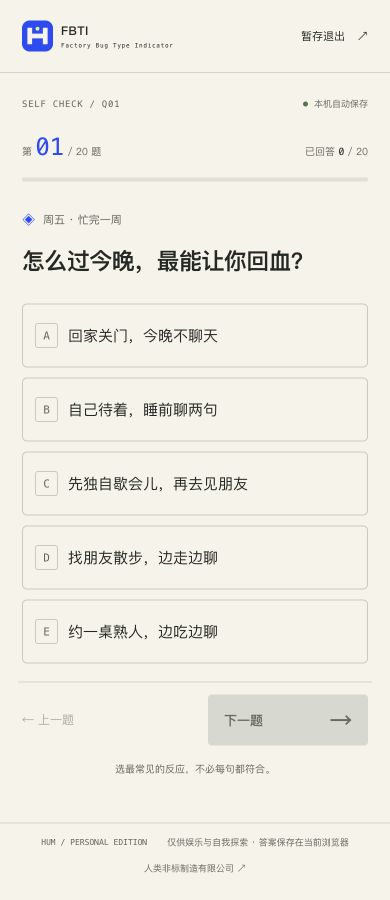
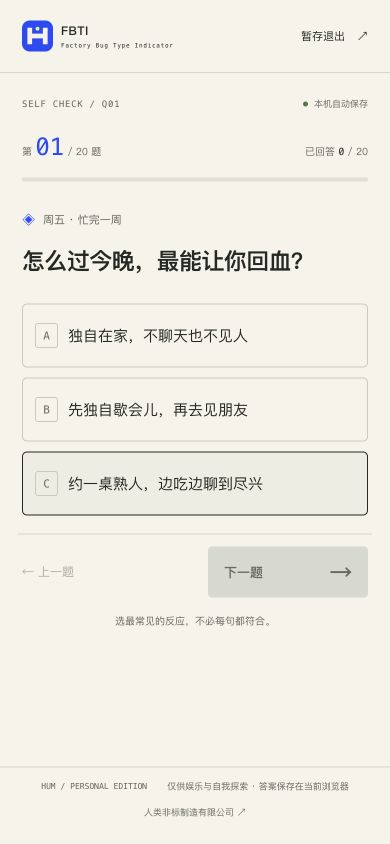
Use three distinct choices per question and preserve legacy answers

diff --git a/src/tests/question-compatibility.test.ts b/src/tests/question-compatibility.test.ts
@@ -1,10 +1,16 @@
 import { describe, expect, it } from "vitest";
 import { SELF_QUESTIONS } from "@/data/questions/self";
 import { FRIEND_QUESTIONS } from "@/data/questions/friend";
-import { orderedQuestionOptions } from "@/data/questions/presentation";
+import { orderedQuestionOptions, retainedQuestionOption } from "@/data/questions/presentation";
 import { generatePersonalManual } from "@/lib/personal-manual/generate";
 import { sampleAnswers, sampleScores } from "@/lib/results/samples";
-import type { Question } from "@/lib/domain";
+import { DIMENSION_IDS, type Question } from "@/lib/domain";
+import { PERSONALITY_TYPES } from "@/data/personality-types";
+import { scoreAnswers } from "@/lib/scoring";
+import { scoreFriendAnswers } from "@/lib/friends/score";
+import { createProgress, decodeProgress, withAnswer } from "@/lib/quiz/progress";
+import { createFriendProgress, decodeFriendProgress } from "@/lib/friends/progress";
+import { encodePacket, publicSelfFromAnswers } from "@/lib/sharing/snapshot";
 import original from "./fixtures/question-contract.json";
 
 const contract = (questions: readonly Question[]) =>
@@ -15,21 +21,73 @@ const contract = (questions: readonly Question[]) =>
     options: options.map(({ id, value }) => ({ id, value })),
   }));
 
-describe("plain-2 wording compatibility", () => {
+describe("clear-3 choices and legacy compatibility", () => {
   it("retains every original stored answer ID, score, direction and serial position", () => {
     expect(contract(SELF_QUESTIONS)).toEqual(original.self);
     expect(contract(FRIEND_QUESTIONS)).toEqual(original.friend);
   });
-  it("display ordering cannot alter saved answers or the resulting report", () => {
+  it("shows exactly three distinct choices without altering legacy answers or reports", () => {
     const answers = sampleAnswers(sampleScores("0101"));
     const before = generatePersonalManual(answers);
     for (const question of [...SELF_QUESTIONS, ...FRIEND_QUESTIONS]) {
       const sourceOrder = question.options.map(({ id }) => id);
       const shown = orderedQuestionOptions(question);
-      expect(shown.map(({ value }) => value)).toEqual([0, 1, 2, 3, 4]);
-      expect(new Set(shown.map(({ id }) => id))).toEqual(new Set(sourceOrder));
+      expect(shown.map(({ value }) => value)).toEqual([0, 2, 4]);
+      expect(new Set(shown.map(({ text }) => text)).size).toBe(3);
+      for (const option of shown) {
+        expect(option.text.trim().length).toBeGreaterThan(0);
+        expect(question.options.find(({ id }) => id === option.id)?.value).toBe(option.value);
+      }
       expect(question.options.map(({ id }) => id)).toEqual(sourceOrder);
     }
     expect(generatePersonalManual(answers)).toStrictEqual(before);
+  });
+  it("keeps both scoring directions and all sixteen models reachable with three choices", () => {
+    for (const [questions, score] of [
+      [SELF_QUESTIONS, scoreAnswers],
+      [FRIEND_QUESTIONS, scoreFriendAnswers],
+    ] as const) {
+      for (const device of PERSONALITY_TYPES) {
+        const answers = questions.map((q) => {
+          const high = device.key[DIMENSION_IDS.indexOf(q.dimension)] === "1";
+          const position = high !== q.reverse ? 2 : 0;
+          return { questionId: q.id, optionId: orderedQuestionOptions(q)[position].id };
+        });
+        expect(score(answers).typeKey).toBe(device.key);
+        expect(Object.values(score(answers).scores)).toEqual([...device.key].map((bit) => bit === "1" ? 100 : 0));
+      }
+      const middle = questions.map((q) => ({ questionId: q.id, optionId: orderedQuestionOptions(q)[1].id }));
+      expect(Object.values(score(middle).scores)).toEqual([50, 50, 50, 50]);
+    }
+  });
+  it("preserves omitted old choices on restore and only replaces an explicitly changed answer", () => {
+    for (const q of [...SELF_QUESTIONS, ...FRIEND_QUESTIONS]) {
+      for (const option of q.options) {
+        expect(retainedQuestionOption(q, option.id)).toEqual(
+          option.value === 1 || option.value === 3 ? option : undefined,
+        );
+      }
+      expect(retainedQuestionOption(q)).toBeUndefined();
+    }
+    const answers = sampleAnswers(sampleScores("0000"));
+    const old = { ...createProgress(), answers, currentIndex: 19, completed: true };
+    const restored = decodeProgress(JSON.stringify(old)).progress;
+    expect(restored).toEqual(old);
+    expect(generatePersonalManual(restored.answers)).toEqual(generatePersonalManual(answers));
+    const choice = orderedQuestionOptions(SELF_QUESTIONS[0])[1];
+    const edited = withAnswer(restored, "Q01", choice.id);
+    expect(edited.answers[0].optionId).toBe(choice.id);
+    expect(edited.answers.slice(1)).toEqual(answers.slice(1));
+    expect(edited.completed).toBe(false);
+    expect(retainedQuestionOption(SELF_QUESTIONS[0], choice.id)).toBeUndefined();
+    expect(scoreAnswers(edited.answers).scores).toEqual({ energy: 30, expression: 25, navigation: 25, connection: 25 });
+    const invitation = encodePacket({ kind: "invite", self: publicSelfFromAnswers(answers), invitationId: "0303030303030303" });
+    const observation = {
+      ...createFriendProgress(invitation),
+      answers: FRIEND_QUESTIONS.map((q) => ({ questionId: q.id, optionId: q.options.find((o) => o.value === 1)!.id })),
+      currentIndex: 7,
+      completed: true,
+    };
+    expect(decodeFriendProgress(JSON.stringify(observation), invitation)).toEqual({ invalid: false, progress: observation });
   });
 });

diff --git a/src/data/questions/three-choice-text.ts b/src/data/questions/three-choice-text.ts
@@ -1,0 +1,145 @@
+/** Clear-3: concrete alternatives for raw values 0 / 2 / 4, in that order.
+ * The original five-choice records remain the scoring and legacy-answer archive.
+ */
+export const THREE_CHOICE_TEXT: Readonly<Record<string, readonly [string, string, string]>> = {
+  "Q01": [
+    "独自在家，不聊天也不见人",
+    "先独自歇会儿，再去见朋友",
+    "约一桌熟人，边吃边聊到尽兴"
+  ],
+  "Q02": [
+    "默默擦桌子，失落留在心里",
+    "缓过劲来，再说这杯有多可惜",
+    "马上开讲，把失望全吐槽出来"
+  ],
+  "Q03": [
+    "先量好位置，按说明一步步装",
+    "看懂大步骤，细节边装边摸索",
+    "先装起来，边试摆边改布局"
+  ],
+  "Q04": [
+    "客气道别，暂时不继续接触",
+    "多聊一会儿，留个下次见的话头",
+    "加联系方式，直接约下次逛店"
+  ],
+  "Q05": [
+    "约朋友一起过，热闹一整天",
+    "半天自己待着，半天和朋友玩",
+    "一整天独处，不安排任何见面"
+  ],
+  "Q06": [
+    "表情藏不住，马上讲哪里失望",
+    "先想好怎么说，再讲真实感受",
+    "只说辛苦了，失望自己消化"
+  ],
+  "Q07": [
+    "不定任何店，看到哪家逛哪家",
+    "定两三家必逛，其余现场决定",
+    "查好营业时间，排完八家路线"
+  ],
+  "Q08": [
+    "当场加好几位，马上约下次活动",
+    "先加一两位，之后慢慢聊熟",
+    "先在群里混熟，暂不单独加人"
+  ],
+  "Q09": [
+    "累了，今晚不想再和人说话",
+    "电量没变，聊天或独处都行",
+    "越聊越精神，回家还想接着聊"
+  ],
+  "Q10": [
+    "回句谢谢，开心留给自己回味",
+    "想好措辞，再认真表达开心",
+    "马上发一串，把开心全讲出来"
+  ],
+  "Q11": [
+    "列好清单，装完逐项核对",
+    "先收证件和必需品，其他随手补",
+    "随手带几样，缺的到地方再买"
+  ],
+  "Q12": [
+    "先各吃各的，熟了再约",
+    "顺路就一起吃，先聊吃喝天气",
+    "主动约饭，直接聊起最近的生活"
+  ],
+  "Q13": [
+    "找朋友聊满一小时，越聊越精神",
+    "先独处半小时，再聊半小时",
+    "戴耳机自己待着，消息暂时不回"
+  ],
+  "Q14": [
+    "当场说开，遗憾一股脑倒出来",
+    "先想一会，再说最遗憾的地方",
+    "暂时不展开，留给自己消化"
+  ],
+  "Q15": [
+    "先出门，看到什么好玩就去哪",
+    "定个避雨起点，后半天随意逛",
+    "重排全天路线，查好时间再走"
+  ],
+  "Q16": [
+    "直接开语音，像老队友一样聊",
+    "先语音十分钟，合拍再继续",
+    "继续文字聊天，熟了再开语音"
+  ],
+  "Q17": [
+    "继续自己待着，安静就能回血",
+    "自己待半天，再见朋友半天",
+    "约朋友一起过，越热闹越有劲"
+  ],
+  "Q18": [
+    "先不说，让音乐在心里多待会",
+    "找好词，再讲最打动我的一段",
+    "边说边比画，把感受全倒出来"
+  ],
+  "Q19": [
+    "排好去哪、待多久，按路线走",
+    "选个主目标，沿途顺便逛逛",
+    "不定目的地，看见有趣的就去"
+  ],
+  "Q20": [
+    "客气回应，拿上咖啡就走",
+    "聊聊这家新店，下次再慢慢熟",
+    "顺势聊起近况，像熟人一样接话"
+  ],
+  "F01": [
+    "回家独处，今晚不再约人",
+    "散场后再聊几句，然后独自歇着",
+    "还想找人续摊，越聊越精神"
+  ],
+  "F02": [
+    "当下看不出来，过后才听TA提起",
+    "先自己理清，再主动讲感受",
+    "情绪当场上脸，也会直接说出来"
+  ],
+  "F03": [
+    "路线和时间都排好，照计划走",
+    "先定必去的几站，其他现场选",
+    "到地方再逛，看见有趣的就去"
+  ],
+  "F04": [
+    "要多见几次，才像熟人一样聊",
+    "先聊共同爱好，私事慢慢再说",
+    "当场聊起各自生活，像老朋友"
+  ],
+  "F05": [
+    "约人待一晚，边聊边恢复精神",
+    "先自己歇会儿，再找朋友聊聊",
+    "自己安静待着，暂时不接消息"
+  ],
+  "F06": [
+    "出影院就开聊，感受全说出来",
+    "当场说一两句，回家再细聊",
+    "先自己回味，隔一阵才想聊"
+  ],
+  "F07": [
+    "眼前什么有意思，马上去做",
+    "先定一件想做的，剩下随意",
+    "重排时间和步骤，定好再行动"
+  ],
+  "F08": [
+    "当场约好，已经像老朋友一样聊",
+    "先一起参加活动，私下慢慢熟",
+    "先保持联系，熟悉后再答应约见"
+  ]
+};

diff --git a/src/features/friends/friend-experience.tsx b/src/features/friends/friend-experience.tsx
@@ -1,5 +1,5 @@
 "use client";
-import { orderedQuestionOptions, QUESTION_COPY_REVISION } from "@/data/questions/presentation";
+import { orderedQuestionOptions, retainedQuestionOption, QUESTION_COPY_REVISION } from "@/data/questions/presentation";
 import Link from "next/link";
 import { useRouter } from "next/navigation";
 import { useEffect, useRef, useState, useSyncExternalStore } from "react";
@@ -42,6 +42,7 @@ function Observation({
   const selected = session.progress.answers.find(
     (a) => a.questionId === q.id,
   )?.optionId;
+  const retained = retainedQuestionOption(q, selected);
   useEffect(() => {
     if (started) title.current?.focus({ preventScroll: true });
   }, [started, session.progress.currentIndex]);
@@ -156,7 +157,12 @@ function Observation({
           <h1 ref={title} tabIndex={-1}>
             {q.prompt}
           </h1>
-          <fieldset className="quiz-options" disabled={submitting}>
+          {retained && (
+            <div className="quiz-notice" id="retained-answer" role="status">
+              <p>已保留上次选择：{retained.text}。可直接继续，或改选下方三项。</p>
+            </div>
+          )}
+          <fieldset className="quiz-options" disabled={submitting} aria-describedby={retained ? "retained-answer" : undefined}>
             <legend className="sr-only">选择最符合你观察的情况</legend>
             {orderedQuestionOptions(q).map((option, i) => (
               <label

diff --git a/src/features/quiz/quiz-experience.tsx b/src/features/quiz/quiz-experience.tsx
@@ -1,5 +1,5 @@
 "use client";
-import { orderedQuestionOptions, QUESTION_COPY_REVISION } from "@/data/questions/presentation";
+import { orderedQuestionOptions, retainedQuestionOption, QUESTION_COPY_REVISION } from "@/data/questions/presentation";
 
 import Link from "next/link";
 import { useRouter } from "next/navigation";
@@ -23,6 +23,7 @@ export function QuizExperience() {
     (answer) => answer.questionId === question.id,
   )?.optionId;
   const count = progress.answers.length;
+  const retained = retainedQuestionOption(question, selected);
   const lastQuestion = progress.currentIndex === SELF_QUESTIONS.length - 1;
 
   useEffect(() => {
@@ -172,7 +173,12 @@ export function QuizExperience() {
                 <h1 id="question-title" ref={titleRef} tabIndex={-1}>
                   {question.prompt}
                 </h1>
-                <fieldset className="quiz-options" disabled={isSubmitting}>
+                {retained && (
+                  <div className="quiz-notice" id="retained-answer" role="status">
+                    <p>已保留上次选择：{retained.text}。可直接继续，或改选下方三项。</p>
+                  </div>
+                )}
+                <fieldset className="quiz-options" disabled={isSubmitting} aria-describedby={retained ? "retained-answer" : undefined}>
                   <legend className="visually-hidden">
                     选择最接近你的情况
                   </legend>

diff --git a/src/data/questions/presentation.ts b/src/data/questions/presentation.ts
@@ -1,9 +1,23 @@
 import type { Question } from "@/lib/domain";
+import { THREE_CHOICE_TEXT } from "./three-choice-text";
 
-/** Text/display revision only. hum-1 and friend-1 scoring remain unchanged. */
-export const QUESTION_COPY_REVISION = "plain-2";
+/** Three visible choices; the five-value scoring/storage contract stays readable. */
+export const QUESTION_COPY_REVISION = "clear-3";
 
-/** Display an ordered scale without mutating source order (used by saved serials). */
+/** Keep original IDs/values and source order, which saved report serials depend on. */
 export function orderedQuestionOptions(question: Question) {
-  return [...question.options].sort((left, right) => left.value - right.value);
+  return question.options
+    .filter((option) => option.value === 0 || option.value === 2 || option.value === 4)
+    .sort((left, right) => left.value - right.value)
+    .map((option) => ({
+      ...option,
+      text: THREE_CHOICE_TEXT[question.id][option.value / 2],
+    }));
+}
+
+/** Preserve an old in-between answer without silently rounding it to a new choice. */
+export function retainedQuestionOption(question: Question, selected?: string) {
+  return question.options.find(
+    (option) => option.id === selected && (option.value === 1 || option.value === 3),
+  );
 }

diff --git a/docs/SCORING.md b/docs/SCORING.md
@@ -4,13 +4,13 @@
 
 ## 数据契约
 
-规范轴顺序固定为 `energy → expression → navigation → connection`。20 道题按四轴交错出现，每轴 5 题、每题等权；五个选项的 `value` 分别为 0、1、2、3、4。屏幕位置与计分值解耦，选项 ID 是保存答案的依据。
+规范轴顺序固定为 `energy → expression → navigation → connection`。20 道题按四轴交错出现，每轴 5 题、每题等权。当前 `clear-3` 界面每题提供 3 项，原始 `value` 为 0、2、4；底层仍保留历史五档 0、1、2、3、4，供旧答案恢复和报告编号使用。屏幕位置与计分值解耦，选项 ID 是保存答案的依据。
 
 `scoreAnswers` 要求完整的 20 条 `{ questionId, optionId }`。非数组、缺失、额外、重复题目、未知题目、非法选项和额外答案字段均抛出 `ScoringError`，不能补默认答案或静默丢弃错误。未来进度保存应保存未完成答案，但只在完整校验通过后调用最终评分。
 
 ## 正反向与标准化
 
-正向题的有效分为 `value`，反向题为 `4 - value`，只反转一次。每轴有效分总和范围 0～20，标准分为 `总和 × 5`，范围 0～100，实际自测分数粒度为 5。不使用随机数、权重猜测、四舍五入或当前时间。
+正向题的有效分为 `value`，反向题为 `4 - value`，只反转一次。每轴有效分总和范围 0～20，标准分为 `总和 × 5`，范围 0～100，新三选答题分数以 10 为步长；含历史答案时仍支持步长 5。不使用随机数、权重猜测、四舍五入或当前时间。
 
 例如某轴五题有效分为 `4、1、3、0、2`，总和为 10，标准分是 50。原始选项值为 4 的反向题对该轴贡献 0。
 
@@ -36,7 +36,7 @@
 
 ## 本阶段验证与边界
 
-自动化测试覆盖极值、每轴全部 21 个可达标准分、正反向计分、中间带两端及 50 平局、所有 16 型可达、输入顺序不变、输入不被修改、同分不同答案保留不同指纹及非法输入拒绝。内容契约另检验 20 题、100 选项、每轴 5 题、双向题分布和 16 份完整型号档案。
+自动化测试覆盖极值、每轴全部 21 个可达标准分、正反向计分、中间带两端及 50 平局、所有 16 型可达、输入顺序不变、输入不被修改、同分不同答案保留不同指纹及非法输入拒绝。内容契约另检验 20 题、100 个历史选项记录（当前界面仅展示其中 60 项）、每轴 5 题、双向题分布和 16 份完整型号档案。
 
 语义质量仍需人工审阅：测试能检验内容结构，不能证明所有文案绝无语义矛盾，更不能证明娱乐题库具有科学测量效度。第二阶段已接通版本化进度与正式答题流程，对改答、刷新、重测进行了实际浏览器验收。好友8题与公开分享已由独立契约实现，不改动本页的hum-1自测评分规则。
 
@@ -45,3 +45,10 @@
 2026-10-23：自测20题和好友观察8题改为短题干、短行为选项。只改变scene/prompt/text及展示次序，题目ID、选项ID、原始分值、正反向、源数组顺序保持不变，hum-1/friend-1评分版本不变。展示层复制选项后按raw value排序；不原地排序，否则会改变依赖源位置的私人编号。旧答题进度继续按optionId恢复。
 
 评分契约快照位于 `src/tests/fixtures/question-contract.json`（来自修订前b7cae09）。既有pm-1/pm-2报告与分享选句回归继续验证旧结果。plain-2仅记录文案/展示修订，不表示重新验证了心理测量效度。
+
+
+## 三选项展示 · clear-3
+
+2026-10-23：每题改为3个具体行为选项，分别使用既有raw 0/2/4；正文来自`three-choice-text.ts`，题库阅览、自测和好友观察共用同一展示函数。题目场景、反向标记、实际评分公式、16型号映射及全部原始记录不变。全新三选答题的自测分数步长10、好友观察步长25，比历史五档更粗；不宣称精度不变或具有科学测量效度。
+
+旧raw 1/3答案不删除、不四舍五入；仍按原ID恢复、评分和生成原编号。答题页显示“已保留上次选择”及原文，可以直接继续，只有主动改选三项之一才替换答案。历史完成记录和分享链接继续可读。不改变hum-1/friend-1存储与评分版本，独立展示修订号clear-3用于标识本次变化。

diff --git a/AGENTS.md b/AGENTS.md
@@ -2,7 +2,7 @@
 
 ## Current scope
 
-Current authorized edit: simplify all self-test and friend-observation question wording and make choices easier to distinguish, then publish. Preserve stored question/option IDs, raw values, reverse scoring and source option order; report serials depend on that order. Wording/display revision plain-2 is independent of hum-1/friend-1 scoring.
+Current authorized edit: present exactly three clearly different choices per self-test and friend-observation question, then publish. clear-3 presents original raw values 0/2/4 with dedicated short copy; retain all five original option IDs/values and source order for saved answers and report serials. Show a retained-answer notice for old 1/3 choices and allow continuation without rounding or resetting them. hum-1/friend-1 scoring and the 16 models stay unchanged.
 
 The user authorized renaming the public repository to `Immortal-Zhang/fbti` and publishing this brand update, with separate concise, image-led Chinese and English READMEs. Upload this project only, including the regression fixtures required by its tests. Keep personal paths, local work notes, build caches and historical QA artifacts out of Git. The latest user request authorizes public website hosting so anyone can open the link and take the test. Use the existing GitHub repository and preserve current functionality; do not expand product features.
 

diff --git a/README_EN.md b/README_EN.md
@@ -36,7 +36,7 @@ npm ci
 npm run dev -- --port 3127
 ```
 
-Open [127.0.0.1:3127](http://127.0.0.1:3127). `npm run check` runs lint, type checking, 486 tests and the production build.
+Open [127.0.0.1:3127](http://127.0.0.1:3127). `npm run check` runs lint, type checking, 488 tests and the production build.
 
 Chinese UI. No account, database or AI API required. For entertainment, not psychological diagnosis.
 

diff --git a/README.md b/README.md
@@ -36,7 +36,7 @@ npm ci
 npm run dev -- --port 3127
 ```
 
-打开 [127.0.0.1:3127](http://127.0.0.1:3127)。`npm run check` 执行代码规范、类型、486项测试及构建检查。
+打开 [127.0.0.1:3127](http://127.0.0.1:3127)。`npm run check` 执行代码规范、类型、488项测试及构建检查。
 
 中文界面；无需账号、数据库或AI API。仅供娱乐，不是心理诊断。
 
